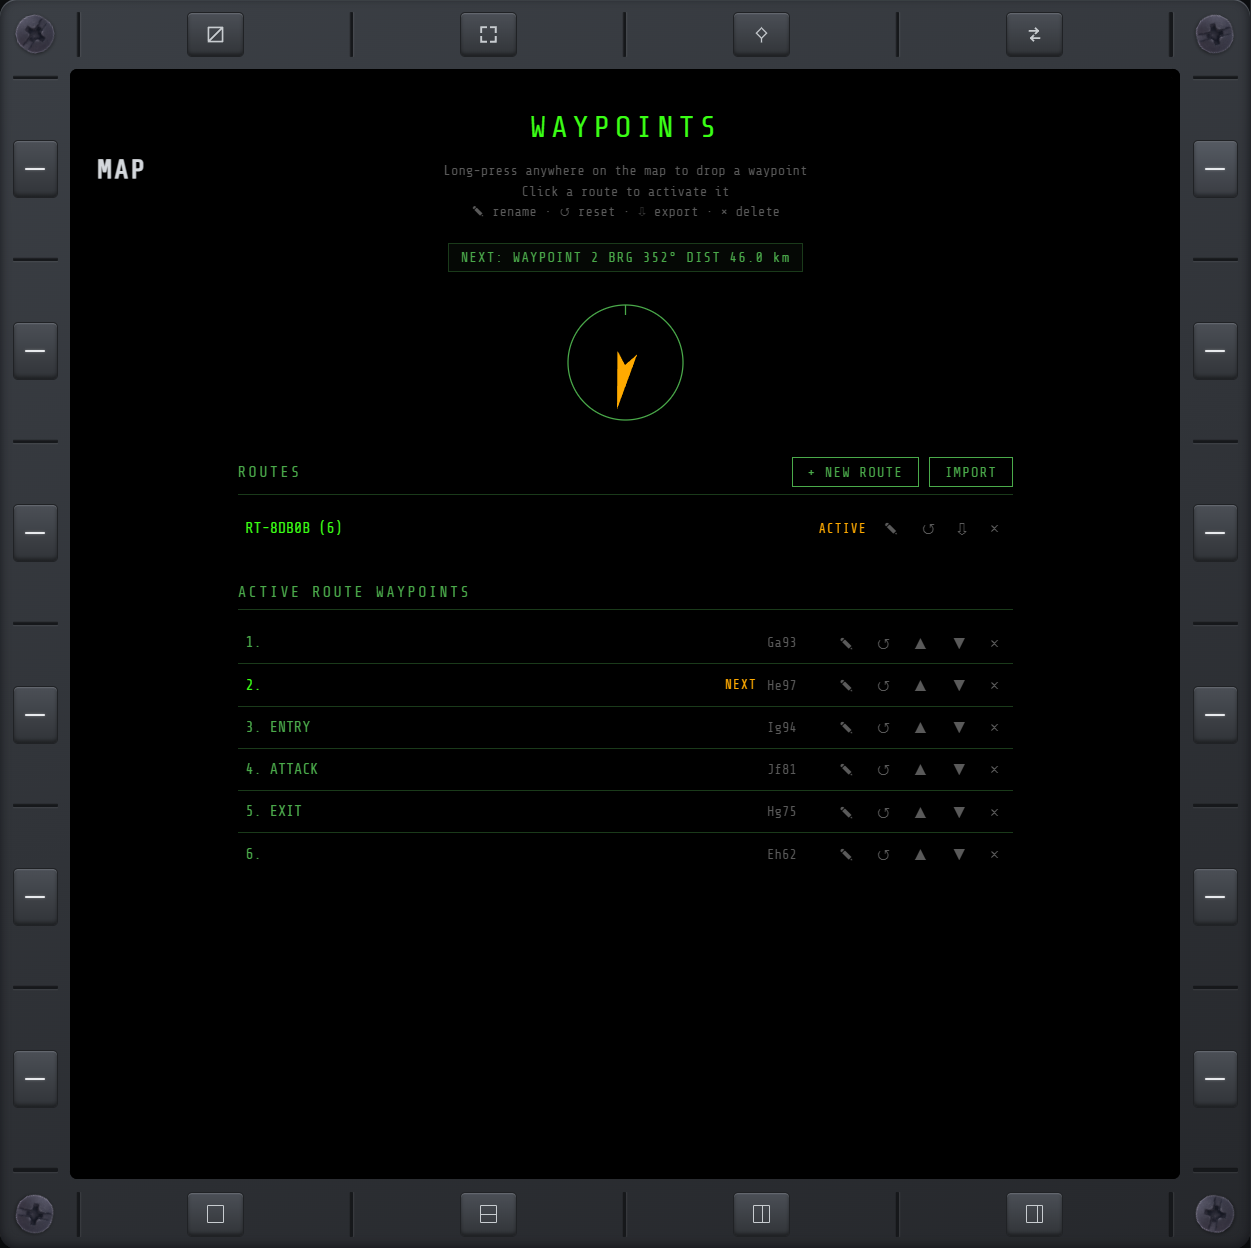
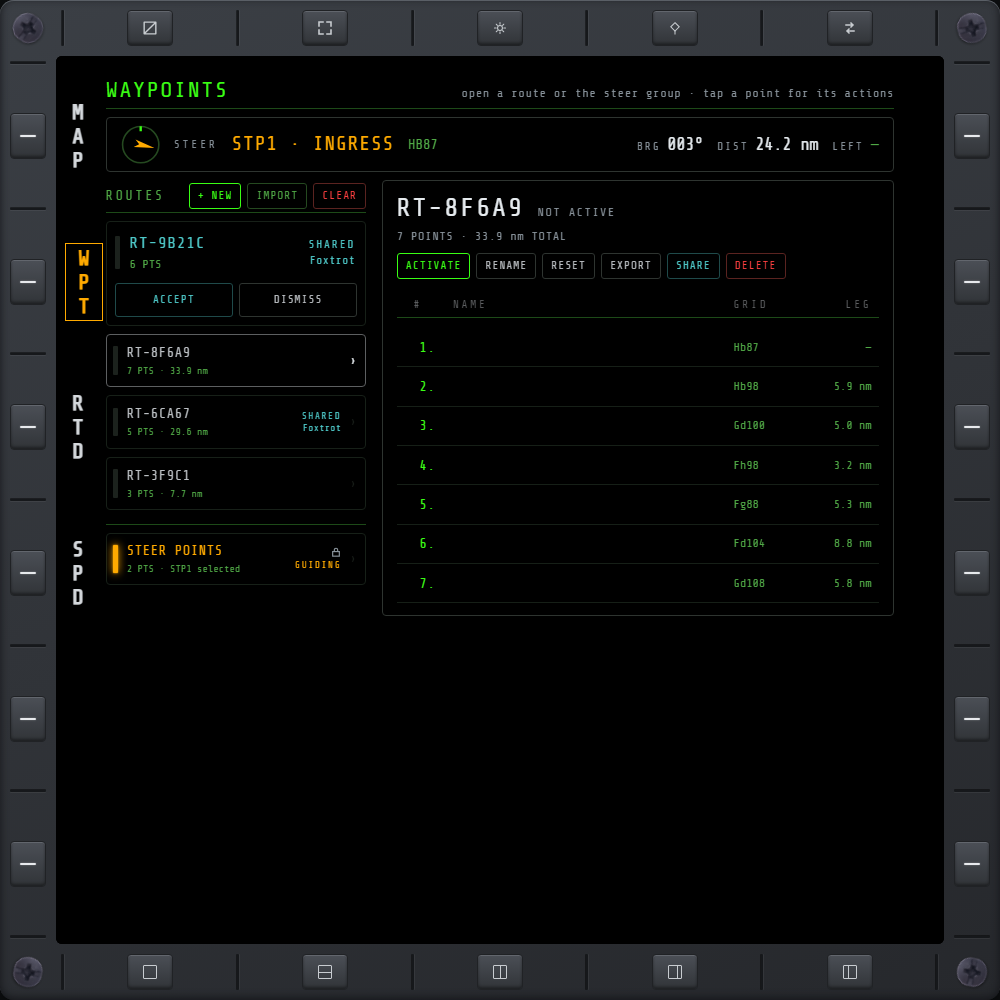
Pre-release pass over 0.69.3..HEAD: WPT/RTD shared formatters, tape built once
- wpt-route.js carries the km/nm and bearing formatters WPT and RTD both
  printed with (distanceParts/formatDistance/formatBearing, tested); a bearing
  that rounds up to 360 now reads 000 instead of 360.
- The RTD/SPD heading tape is built once and slid each tick instead of
  rebuilding ~100 tick elements at 10 Hz (docs/performance.md, 2026-10-03).
- man/wpt.md gets current WPT, RTD and SPD screenshots; steer-points.md points
  to wpt-rework.md for the current layout.

diff --git a/src/web/pages/rtd/rtd.js b/src/web/pages/rtd/rtd.js
@@ -24,14 +24,9 @@ function el(tag, cls, text) {
   if (text != null) e.textContent = text;
   return e;
 }
-function km(m) { return m / 1000; }
-// [value, unit] per the player's unit setting (mapinfo.metric), as HSD/FCR/OBJ show range.
-function distParts(m) {
-  if (m == null) return ['—', ''];
-  return mapinfo.metric ? [km(m).toFixed(1), 'km'] : [(km(m) * 0.539957).toFixed(1), 'nm'];
-}
-function fmtDist(m) { const p = distParts(m); return p[1] ? p[0] + ' ' + p[1] : p[0]; }
-function fmtDeg(d) { return ('00' + Math.round(((d % 360) + 360) % 360)).slice(-3) + '°'; }
+function distParts(m) { return WptRoute.distanceParts(m, mapinfo.metric); }
+function fmtDist(m) { return WptRoute.formatDistance(m, mapinfo.metric); }
+const fmtDeg = WptRoute.formatBearing;
 function gridOf(p) { return mapinfo.ox == null ? '—' : gridLabel(p.x, p.z, { ox: mapinfo.ox, oy: mapinfo.oy }); }
 
 // ── what this page is showing ──────────────────────────────────────────────────────────
@@ -99,36 +94,57 @@ function tick() {
 }
 
 // ── heading tape ───────────────────────────────────────────────────────────────────────
-function renderTape(brg) {
+// Built once: a scale four tape-widths long (-60° to 420°, so any heading's ±60° window is on it)
+// that each tick only slides, plus a bug and an edge arrow that move or swap text. Rebuilding the
+// ticks on every 10 Hz mapinfo tick would churn the DOM for nothing.
+const SCALE_FROM = -TAPE_SPAN / 2, SCALE_TO = 360 + TAPE_SPAN / 2;
+const tapeParts = {};
+function buildTape() {
   const tape = $('rtd-tape');
-  tape.innerHTML = '';
-  const hdg = mapinfo.hdg;
-  if (typeof hdg !== 'number') { tape.appendChild(el('div', 'rtd-lubber')); return; }
-  const pct = (a) => 50 + (a - hdg) / TAPE_SPAN * 100;
-  for (let a = Math.ceil((hdg - TAPE_SPAN / 2) / 5) * 5; a <= hdg + TAPE_SPAN / 2; a += 5) {
+  const scale = el('div', 'rtd-tape-scale');
+  const at = (a) => ((a - SCALE_FROM) / (SCALE_TO - SCALE_FROM) * 100) + '%';
+  for (let a = SCALE_FROM; a <= SCALE_TO; a += 5) {
     const t = el('div', 'rtd-tick' + (a % 10 === 0 ? ' big' : ''));
-    t.style.left = pct(a) + '%';
-    tape.appendChild(t);
+    t.style.left = at(a);
+    scale.appendChild(t);
     const n = ((a % 360) + 360) % 360;
-    if (n % 30 === 0 && Math.abs(a - hdg) > 8) {
+    if (n % 30 === 0) {
       const l = el('span', 'rtd-tick-label', { 0: 'N', 90: 'E', 180: 'S', 270: 'W' }[n] || ('0' + n / 10).slice(-2));
-      l.style.left = pct(a) + '%';
-      tape.appendChild(l);
+      l.style.left = at(a);
+      scale.appendChild(l);
     }
   }
+  tape.appendChild(scale);
   tape.appendChild(el('div', 'rtd-lubber'));
-  tape.appendChild(el('span', 'rtd-hdg', fmtDeg(hdg)));
+  const bug = document.createElementNS('http://www.w3.org/2000/svg', 'svg');
+  bug.setAttribute('class', 'rtd-bug');
+  bug.setAttribute('viewBox', '0 0 18 20');
+  bug.innerHTML = '<path d="M 0 0 L 18 0 L 18 10 L 9 20 L 0 10 Z"/>';
+  tape.appendChild(bug);
+  Object.assign(tapeParts, { scale, bug, hdg: el('span', 'rtd-hdg'), edge: el('span', 'rtd-edge') });
+  tape.appendChild(tapeParts.hdg);
+  tape.appendChild(tapeParts.edge);
+}
+function renderTape(brg) {
+  if (!tapeParts.scale) buildTape();
+  const hdg = mapinfo.hdg, has = typeof hdg === 'number';
+  tapeParts.scale.hidden = tapeParts.hdg.hidden = !has;
+  tapeParts.bug.style.display = 'none';
+  tapeParts.edge.hidden = true;
+  if (!has) return;
+  const h = ((hdg % 360) + 360) % 360;
+  // Put heading h at the tape's centre: the scale is 4 tape-widths, translate in its own percent.
+  tapeParts.scale.style.transform = 'translateX(' + ((0.5 - (h - SCALE_FROM) / TAPE_SPAN) * 25) + '%)';
+  tapeParts.hdg.textContent = fmtDeg(h);
   if (brg == null) return;
-  const rel = WptRoute.signedTurn(brg, hdg);
+  const rel = WptRoute.signedTurn(brg, h);
   if (Math.abs(rel) <= TAPE_SPAN / 2 - 3) {
-    const bug = document.createElementNS('http://www.w3.org/2000/svg', 'svg');
-    bug.setAttribute('class', 'rtd-bug');
-    bug.setAttribute('viewBox', '0 0 18 20');
-    bug.innerHTML = '<path d="M 0 0 L 18 0 L 18 10 L 9 20 L 0 10 Z"/>';
-    bug.style.left = pct(hdg + rel) + '%';
-    tape.appendChild(bug);
+    tapeParts.bug.style.display = '';
+    tapeParts.bug.style.left = (50 + rel / TAPE_SPAN * 100) + '%';
   } else {
-    tape.appendChild(el('span', 'rtd-edge ' + (rel < 0 ? 'left' : 'right'), rel < 0 ? '◀ ' + fmtDeg(brg) : fmtDeg(brg) + ' ▶'));
+    tapeParts.edge.hidden = false;
+    tapeParts.edge.className = 'rtd-edge ' + (rel < 0 ? 'left' : 'right');
+    tapeParts.edge.textContent = rel < 0 ? '◀ ' + fmtDeg(brg) : fmtDeg(brg) + ' ▶';
   }
 }
 

diff --git a/src/web/pages/wpt/wpt.js b/src/web/pages/wpt/wpt.js
@@ -42,13 +42,7 @@ function button(label, cls, onClick, aria) {
   return b;
 }
 
-// km or nm per the player's unit setting (mapinfo.metric), as HSD/FCR/OBJ show range.
-function fmtDist(m) {
-  if (m == null) return '—';
-  const km = m / 1000;
-  return mapinfo.metric ? km.toFixed(1) + ' km' : (km * 0.539957).toFixed(1) + ' nm';
-}
-function fmtDeg(d) { return ('00' + Math.round(((d % 360) + 360) % 360)).slice(-3) + '°'; }
+function fmtDist(m) { return WptRoute.formatDistance(m, mapinfo.metric); }
 function gridOf(p) { return mapinfo.ox == null ? '—' : gridLabel(p.x, p.z, { ox: mapinfo.ox, oy: mapinfo.oy }); }
 function ownDist(p) { return mapinfo.x == null ? null : WptRoute.distanceBearing(mapinfo.x, mapinfo.z, p.x, p.z).distM; }
 function canShare() { return sqd.role === 'leader' && sqd.members.length > 0; }
@@ -345,7 +339,7 @@ function renderNext() {
   const grid = gridOf(p).toUpperCase();
   if (mapinfo.x == null) { needle.style.display = 'none'; set(isWpt ? 'NEXT' : 'STEER', title, grid, '—', '—', '—'); return; }
   const db = WptRoute.distanceBearing(mapinfo.x, mapinfo.z, p.x, p.z);
-  set(isWpt ? 'NEXT' : 'STEER', title, grid, fmtDeg(db.brgDeg), fmtDist(db.distM),
+  set(isWpt ? 'NEXT' : 'STEER', title, grid, WptRoute.formatBearing(db.brgDeg), fmtDist(db.distM),
     isWpt ? fmtDist(WptRoute.remainingDistance(route, mapinfo.x, mapinfo.z)) : '—');
   if (typeof mapinfo.hdg === 'number') {
     needle.style.display = '';

diff --git a/src/web/pages/wpt/wpt-route.js b/src/web/pages/wpt/wpt-route.js
@@ -53,6 +53,23 @@
     return ((brgDeg - hdg) % 360 + 540) % 360 - 180;
   }
 
+  // [value, unit] for a distance in meters, in the player's unit (km when metric, else nm) — the
+  // split HSD/FCR/OBJ's range readouts use. ['—', ''] when there's no distance.
+  function distanceParts(m, metric) {
+    if (m == null) return ['—', ''];
+    const km = m / 1000;
+    return metric ? [km.toFixed(1), 'km'] : [(km * 0.539957).toFixed(1), 'nm'];
+  }
+  function formatDistance(m, metric) {
+    const p = distanceParts(m, metric);
+    return p[1] ? p[0] + ' ' + p[1] : p[0];
+  }
+
+  // Three-digit bearing, 0-359: "005°".
+  function formatBearing(deg) {
+    return ('00' + Math.round(((deg % 360) + 360) % 360) % 360).slice(-3) + '°';
+  }
+
   // Leg length into each waypoint (meters); the first point starts the route, so its leg is 0.
   function legLengths(points) {
     return points.map((p, i) => i === 0 ? 0 : Math.hypot(p.x - points[i - 1].x, p.z - points[i - 1].z));
@@ -163,6 +180,7 @@
 
   const api = {
     distanceBearing, relativeBearing, signedTurn,
+    distanceParts, formatDistance, formatBearing,
     legLengths, routeLength, remainingDistance, timeline,
     waypointMarkerState, segmentReached,
     findRoute, findSteerPoint, navigationTarget,

diff --git a/src/web/pages/rtd/rtd.css b/src/web/pages/rtd/rtd.css
@@ -58,11 +58,12 @@ html, body {
   border: 1px solid var(--no-line); border-radius: 4px;
   overflow: hidden;
 }
+.rtd-tape-scale { position: absolute; left: 0; top: 0; width: 400%; height: 100%; will-change: transform; }
 .rtd-tick { position: absolute; top: 0; width: 1.5px; height: 0.56em; background: var(--no-green-line); }
 .rtd-tick.big { height: 1.125em; }
 .rtd-tick-label { position: absolute; top: 2.75em; width: 2.5em; margin-left: -1.25em; text-align: center; font-size: 0.875em; color: var(--no-green-dim); }
 .rtd-lubber { position: absolute; left: 50%; top: 0; width: 2px; height: 1.625em; margin-left: -1px; background: var(--no-white); }
-.rtd-hdg { position: absolute; left: 50%; top: 2.2em; width: 4em; margin-left: -2em; text-align: center; font-size: 0.75em; color: var(--no-white); }
+.rtd-hdg { position: absolute; left: 50%; top: 2.2em; width: 4em; margin-left: -2em; text-align: center; font-size: 0.75em; color: var(--no-white); background: var(--no-bg); }   /* covers a scale label under it */
 .rtd-bug { position: absolute; top: 0; width: 1.125em; height: 1.25em; margin-left: -0.5625em; fill: var(--no-amber); }
 .rtd-edge { position: absolute; top: 1.4em; font-size: 0.8125em; color: var(--no-amber); }
 .rtd-edge.left { left: 0.6em; }

diff --git a/src/web/pages/wpt/wpt-route.test.js b/src/web/pages/wpt/wpt-route.test.js
@@ -143,6 +143,16 @@ assert.strictEqual(R.signedTurn(350, 10), -20);
 assert.strictEqual(R.signedTurn(90, 90), 0);
 assert.strictEqual(R.signedTurn(270, 90), -180);  // dead astern reads as a full left turn
 
+// ── distance / bearing formatting ────────────────────────────────────────────────────────
+assert.deepStrictEqual(R.distanceParts(12345, true), ['12.3', 'km']);
+assert.deepStrictEqual(R.distanceParts(1852, false), ['1.0', 'nm']);
+assert.deepStrictEqual(R.distanceParts(null, true), ['—', '']);
+assert.strictEqual(R.formatDistance(500, true), '0.5 km');
+assert.strictEqual(R.formatDistance(null, false), '—');
+assert.strictEqual(R.formatBearing(5), '005°');
+assert.strictEqual(R.formatBearing(-10), '350°');
+assert.strictEqual(R.formatBearing(359.6), '000°');   // rounds up to 360, which reads as north
+
 // ── legLengths / routeLength / remainingDistance ─────────────────────────────────────────
 {
   const pts = [wp('a', '', 0, 0), wp('b', '', 0, 3000), wp('c', '', 4000, 3000)];

diff --git a/docs/performance.md b/docs/performance.md
@@ -704,6 +704,18 @@ Left as found:
 - **DIAG98** (issue 98) builds a string with three reflection reads on every snapshot push. It is
   temporary and goes with the rest of the DIAG98 lines.
 
+## 2026-10-03 — post-0.69.3 code scan: WPT rework
+
+The WPT rework (docs/wpt-rework.md) adds two pages that follow the 10 Hz `mapinfo` slice. WPT and
+RTD/SPD rebuild their lists only when the navigation library changes; a `mapinfo` tick refreshes the
+readouts and the steer-point DIST cells in place. Shipped:
+
+- **RTD/SPD heading tape** is built once (a scale four tape-widths long) and slid with a transform
+  each tick, instead of rebuilding its ~100 tick elements at 10 Hz.
+
+Left as found: `mapinfo` now carries the map size (`w`, `h`), two numbers on a shell-local
+postMessage, not on the wire.
+
 ## Marginal polish — implemented
 
 - **#4 — split rates.** Contacts at map scale no longer rebuild at the full

diff --git a/docs/wpt-rework.md b/docs/wpt-rework.md
@@ -66,7 +66,9 @@ The timeline and tape are laid out in `calc()` of their own width, so they reflo
 ## Shared pieces
 
 - `wpt-route.js` (unit-tested): `signedTurn`, `legLengths`, `routeLength`, `remainingDistance`,
-  `timeline`.
+  `timeline`, and the km/nm and bearing formatters both pages print with (`distanceParts`,
+  `formatDistance`, `formatBearing`).
+- The RTD/SPD heading tape is built once and slid each tick (docs/performance.md, 2026-10-03).
 - `telemetry-source.js` adds the map size (`w`, `h`) to `mapinfo`, which `gridToWorld` needs.
 - WPT no longer uses `shared/page-chrome.css`; the page is a fixed panel like TGT, its two columns
   stacking in a narrow pane.

diff --git a/man/wpt.md b/man/wpt.md
@@ -43,10 +43,14 @@ waypoint with its distance, bearing and which way to turn, and the whole route a
 six waypoints sit on a row; a longer route continues on the next row. Tap a waypoint on the timeline
 to fly direct to it. Below it, the next two waypoints and the distance left.
 
+![RTD page](images/RTD.png)
+
 ## SPD — steer-point details
 
 The same heading tape and readout for the selected steer point, with every steer point as a button
 beneath it. Tap one to guide to it.
+
+![SPD page](images/SPD.png)
 
 ## Import / export
 

diff --git a/docs/steer-points.md b/docs/steer-points.md
@@ -1,5 +1,9 @@
 # WPT steer points
 
+> The page layout described below is the original one. The current WPT layout (steer points as a
+> fixed group beside the routes, the typed-in grid entry, and the SPD detail page) is in
+> `docs/wpt-rework.md`; the data model, guidance priority and squad sharing here still apply.
+
 ## Requirements
 
 The WPT page has a **STEER POINTS** table below the active route's waypoint table. A steer point is
